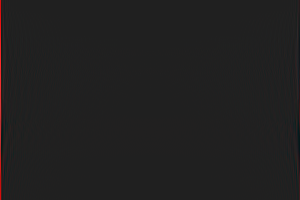
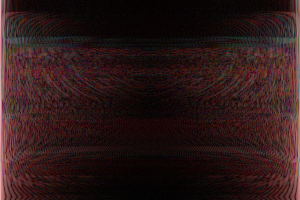
carrying el brightness/contrast

diff --git a/QExampleLabel.py b/QExampleLabel.py
@@ -15,8 +15,10 @@ class QExampleLabel (QLabel):
         self.croppedPixmap = None
         self.img = None
         self.flag = flag
-        self.contrasted = 0
-        self.brightned = 0
+        self.isContrast = False
+        self.isBrightness = False
+        self.contrast = 0
+        self.brightness = 0
         self.Rect = QRect(QPoint(0,0),QtCore.QSize())
 
     def setImage (self,pixmap,img):
@@ -29,6 +31,21 @@ class QExampleLabel (QLabel):
 
     def setIsCropable(self,bool):
         self.isCropable = bool
+        if bool == True:
+            self.isContrast = False
+            self.isBrightness = False
+
+    def setIsBrightness(self,bool):
+        self.isBrightness = bool
+        if bool == True:
+            self.isCropable = False
+            self.isContrast = False
+
+    def setIsContrast(self,bool):
+        self.isContrast = bool
+        if bool == True:
+            self.isCropable = False
+            self.isBrightness = False
 
     def resetRubberBand(self):
         if self.currentQRubberBand != None:
@@ -37,28 +54,32 @@ class QExampleLabel (QLabel):
         self.Rect = QRect(QPoint(0,0),QtCore.QSize())
 
     def mousePressEvent (self, eventQMouseEvent):
-        if self.isCropable == False:
-            return
-        if self.currentQRubberBand != None:
-            self.currentQRubberBand.hide()
-        self.originQPoint = eventQMouseEvent.pos()
-        self.currentQRubberBand = QRubberBand(QRubberBand.Rectangle, self)
-        self.currentQRubberBand.setGeometry(QRect(self.originQPoint, QtCore.QSize()))
-        self.currentQRubberBand.show()
+        if self.isCropable == True:
+            if self.currentQRubberBand != None:
+                self.currentQRubberBand.hide()
+            self.originQPoint = eventQMouseEvent.pos()
+            self.currentQRubberBand = QRubberBand(QRubberBand.Rectangle, self)
+            self.currentQRubberBand.setGeometry(QRect(self.originQPoint, QtCore.QSize()))
+            self.currentQRubberBand.show()
+        elif self.isBrightness == True or self.isContrast == True:
+            self.originQPoint = eventQMouseEvent.pos()
 
     def mouseMoveEvent (self, eventQMouseEvent):
-        if self.isCropable == False:
-            return
-        self.currentQRubberBand.setGeometry(QRect(self.originQPoint, eventQMouseEvent.pos()).normalized())
+        if self.isCropable == True:
+            self.currentQRubberBand.setGeometry(QRect(self.originQPoint, eventQMouseEvent.pos()).normalized())
+        elif self.isBrightness == True or self.isContrast == True:
+            self.SecondQPoint = eventQMouseEvent.pos()
 
     def mouseReleaseEvent (self, eventQMouseEvent):
-        if self.isCropable == False:
-            return
-        currentQRect = self.currentQRubberBand.geometry()
-        self.Rect = currentQRect
-        cropQPixmap = self.pixmap().copy(currentQRect)
-        self.croppedPixmap = cropQPixmap
-        #cropQPixmap.save('output.png')
+        if self.isCropable == True:
+            currentQRect = self.currentQRubberBand.geometry()
+            self.Rect = currentQRect
+            cropQPixmap = self.pixmap().copy(currentQRect)
+            self.croppedPixmap = cropQPixmap
+        elif self.isBrightness == True:
+            self.brightness = self.originQPoint.y() - self.SecondQPoint.y()
+        elif self.isContrast == True:
+            self.contrast = self.SecondQPoint.x() - self.originQPoint.x()
 
     def getCropped(self,QRect):
         Image = QImage(self.img.path)
@@ -68,8 +89,8 @@ class QExampleLabel (QLabel):
         return cropped
 
     def changBC(self):
-        BCimage = cv2.addWeighted(self.img, self.contrasted, np.zeros(self.img.shape, self.img.dtype), self.brightned , 50)
-
+        Image = cv2.addWeighted(self.img, self.contrast, np.zeros(self.img.shape, self.img.dtype), self.brightness , 50)
+        return Image
 
 if __name__ == '__main__':
     myQApplication = QApplication(sys.argv)

diff --git a/myWindow.py b/myWindow.py
@@ -45,6 +45,8 @@ class MyWindow(QMainWindow):
         self.changed3 = QExampleLabel(self,3)
         self.changed4 = QExampleLabel(self,4)
         self.changed1.setIsCropable(True)
+        for fixed in [self.fixed1,self.fixed2,self.fixed3,self.fixed4]:
+            fixed.setIsBrightness(True)
         self.output_window = OutputWindow()
         self.ui.applyButton.clicked.connect(self.open_output_window)
         self.ui.widget.layout().addWidget(self.fixed1)
@@ -57,6 +59,8 @@ class MyWindow(QMainWindow):
         self.ui.widget_8.layout().addWidget(self.changed4)
         self.ui.radioButton.setChecked(True)
         self.ui.Inner_radio.setChecked(True)
+        self.ui.brightness_radio.setChecked(True)
+
         self.isInner = True
         self.overlay_color = QColor(255, 0, 0, 100)
         for combo in [self.ui.comboBox_1,self.ui.comboBox_2,self.ui.comboBox_3,self.ui.comboBox_4]:
@@ -81,8 +85,10 @@ class MyWindow(QMainWindow):
         #      slider.valueChanged.connect(lambda value, mode=mode: self.mixing(value))
         self.radioButton.toggled.connect(self.whichoutput)
         self.radioButton_2.toggled.connect(self.whichoutput)
-        self.Inner_radio.toggled.connect(self.select_region)
-        self.Outer_radio.toggled.connect(self.select_region)
+        self.Inner_radio.toggled.connect(self.PhotoAdjustment)
+        self.Outer_radio.toggled.connect(self.PhotoAdjustment)
+        self.contrast_radio.toggled.connect(self.PhotoAdjustment)
+        self.brightness_radio.toggled.connect(self.PhotoAdjustment)
 
 
         self.output = 1
@@ -174,11 +180,19 @@ class MyWindow(QMainWindow):
                  Images.pop(index)
                  print(len(Images))
     
-    def select_region(self):
+    def PhotoAdjustment(self):
         if self.Inner_radio.isChecked():
             self.isInner = True
+            self.changed1.setIsCropable(True)
         elif self.Outer_radio.isChecked():
             self.isInner = False
+            self.changed1.setIsCropable(True)
+        elif self.brightness_radio.isChecked():
+            for fixed in [self.fixed1,self.fixed2,self.fixed3,self.fixed4]:
+                fixed.setIsBrightness(True)
+        elif self.contrast_radio.isChecked():
+            for fixed in [self.fixed1,self.fixed2,self.fixed3,self.fixed4]:
+                fixed.setIsContrast(True)
             
     def selectBC(self):
         if self.brightness_radio.isChecked():
